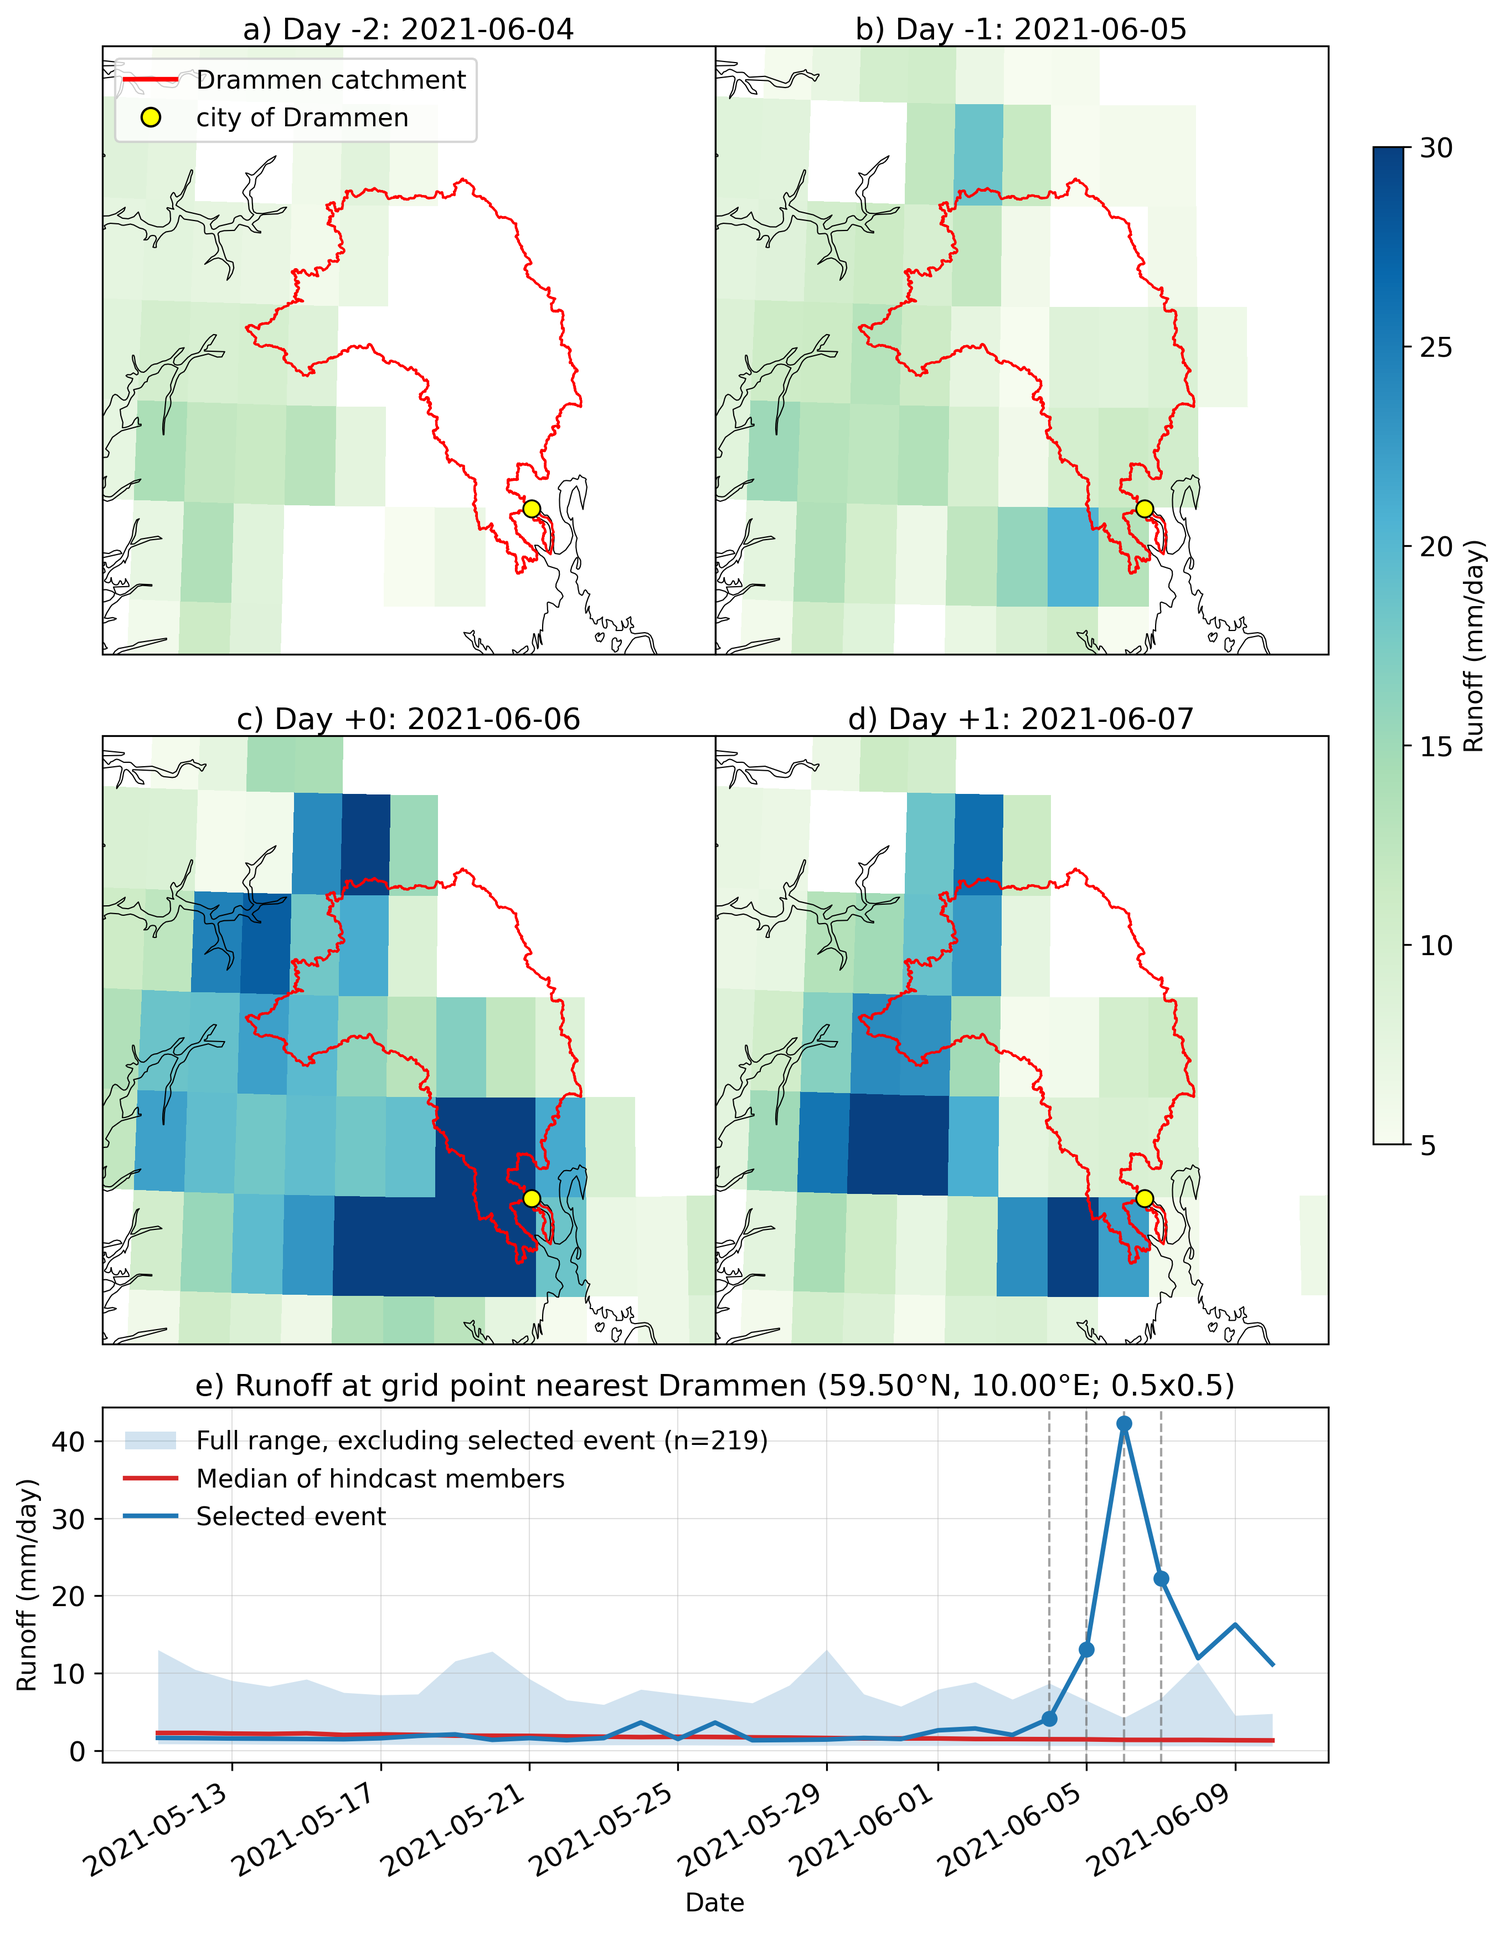
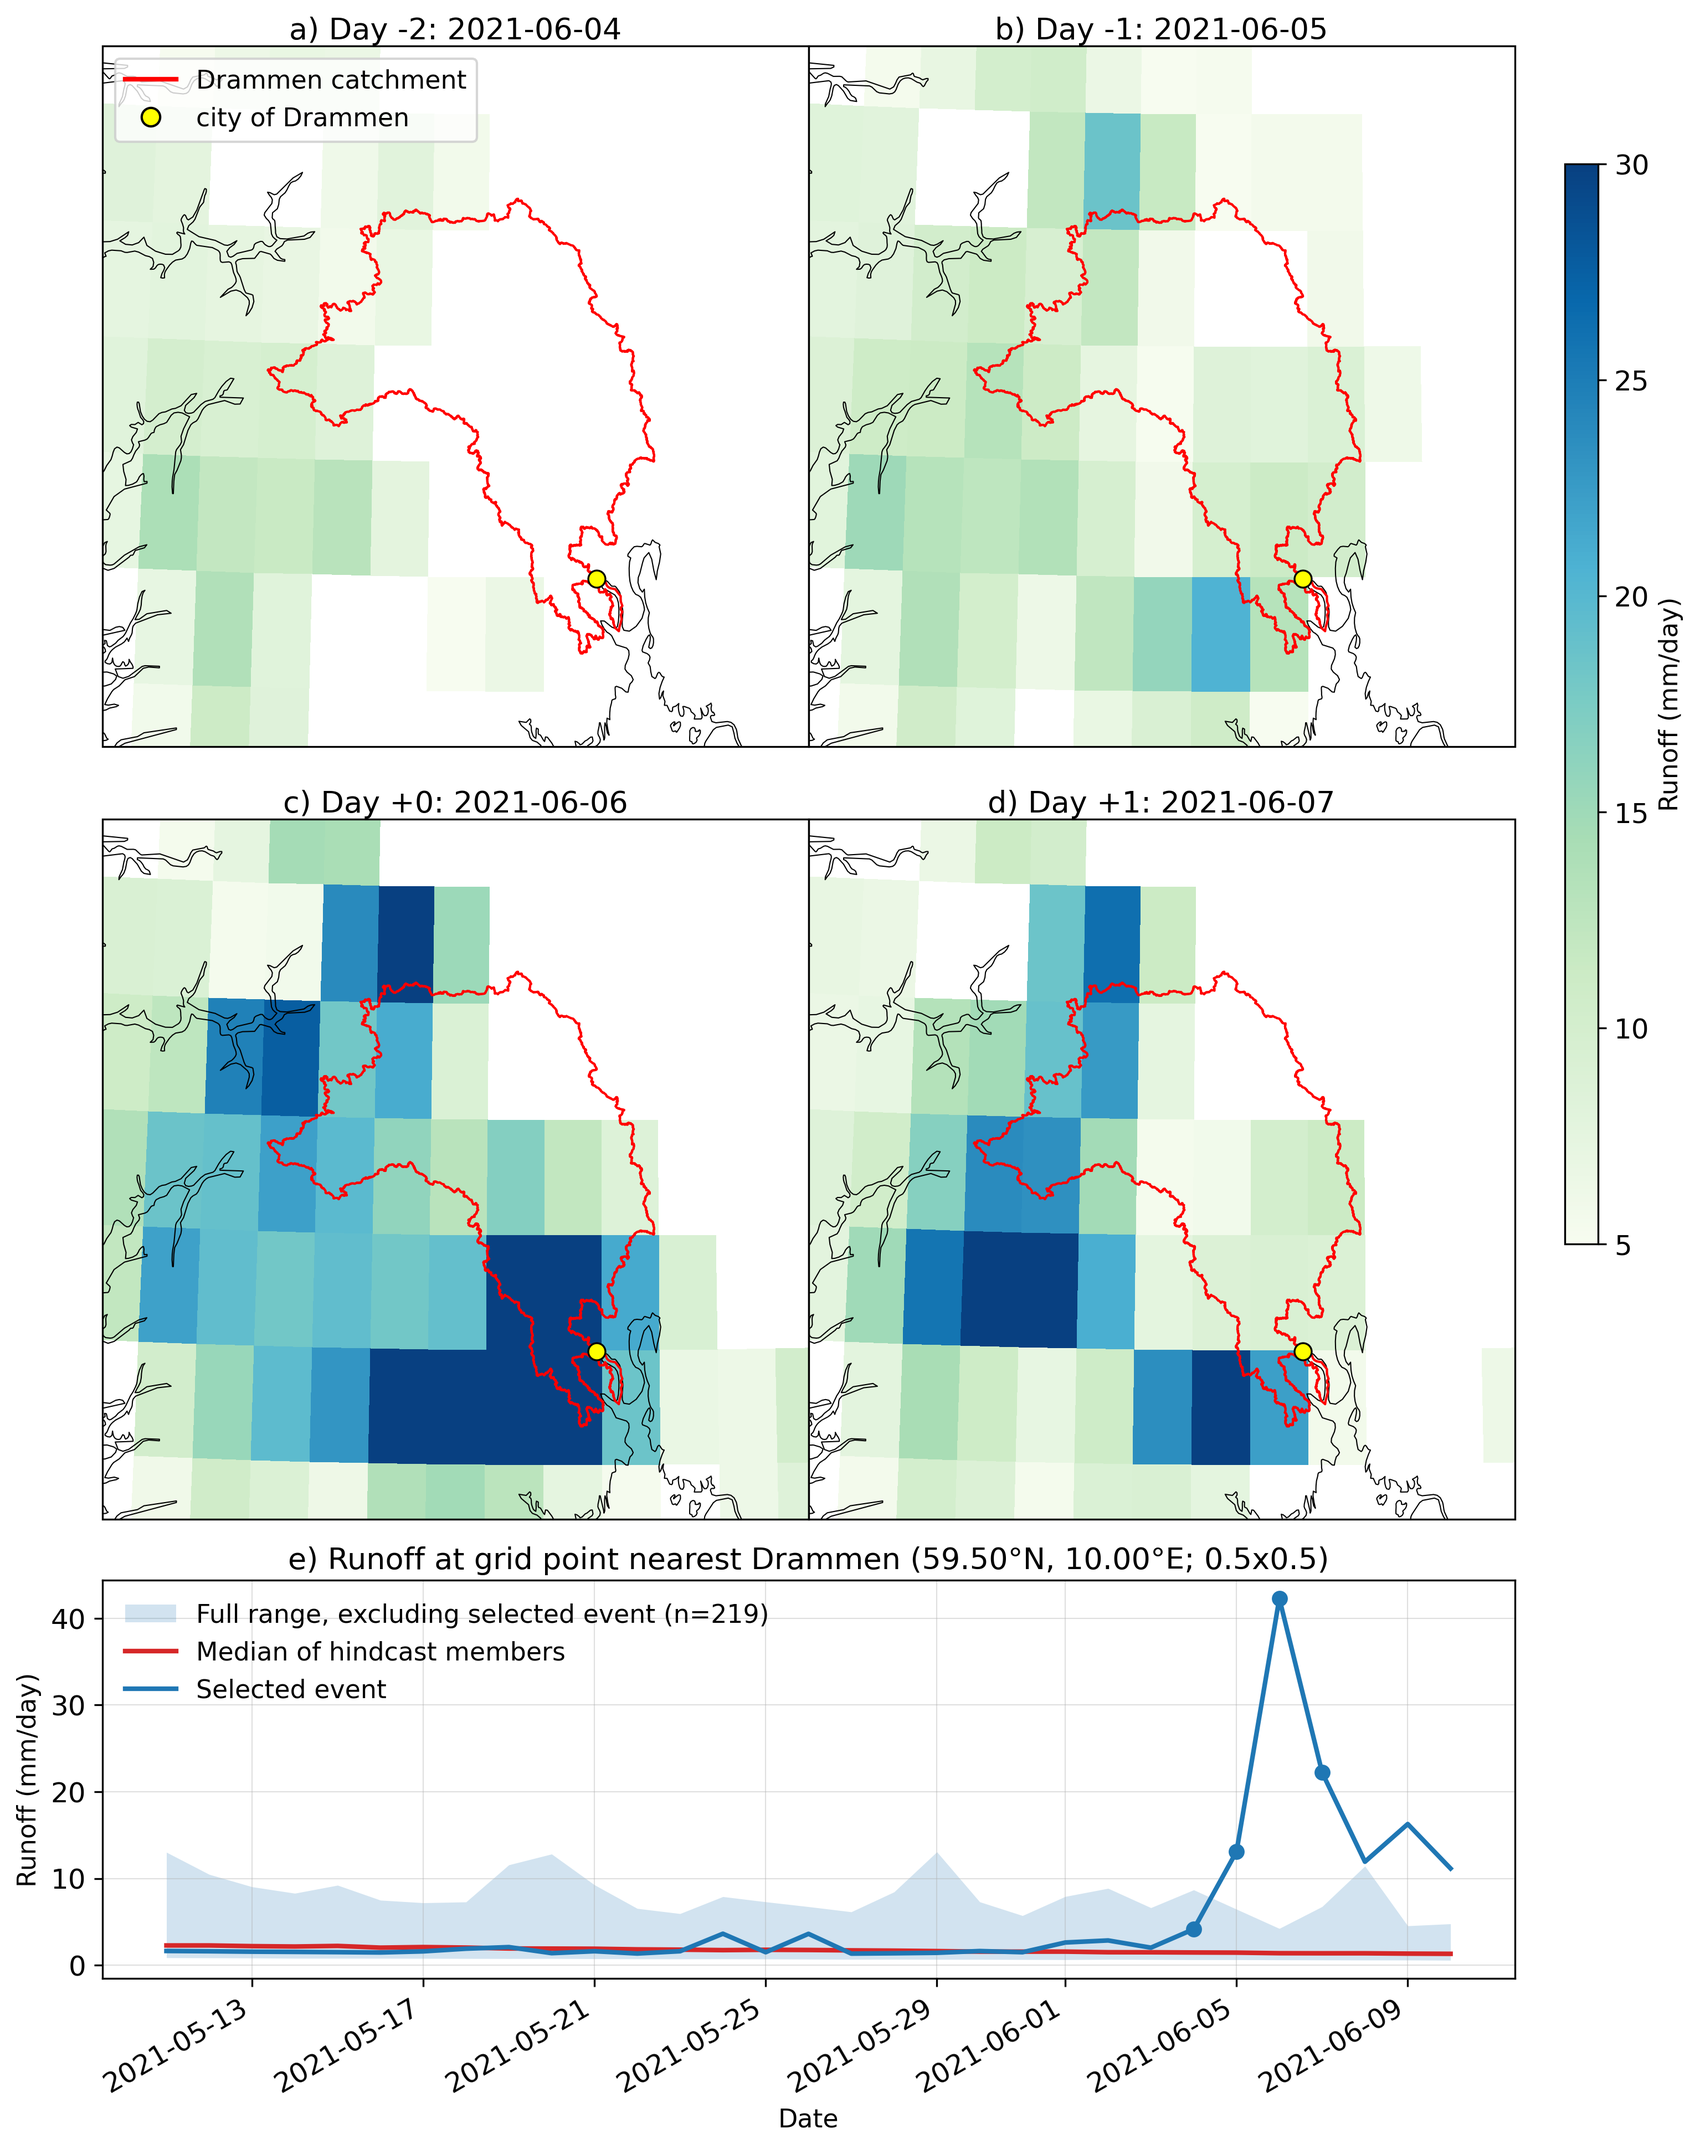
update

diff --git a/code/plot/paper_figs/temp4.py b/code/plot/paper_figs/temp4.py
@@ -64,8 +64,8 @@ S2S_BASE_DIR = Path("/nird/datapeak/NS9873K/etdu/raw/s2s/mars/ecmwf")
 # Figure settings
 # =============================================================================
 
-FIG_WIDTH_IN = 9
-FIG_HEIGHT_IN = 12
+FIG_WIDTH_IN = 10
+FIG_HEIGHT_IN = 13
 
 MAP_EXTENT = [6, 12, 59, 62]
 MAP_WSPACE = 0.0
@@ -730,13 +730,13 @@ def plot_runoff_timeseries(ts_ax, event, event_dates):
     )
 
     for date in event_dates:
-        ts_ax.axvline(
-            np.datetime64(date),
-            color="0.4",
-            linewidth=EVENT_DATE_LINEWIDTH,
-            alpha=EVENT_DATE_ALPHA,
-            linestyle="--",
-        )
+        #ts_ax.axvline(
+        #    np.datetime64(date),
+        #    color="0.4",
+        #    linewidth=EVENT_DATE_LINEWIDTH,
+        #    alpha=EVENT_DATE_ALPHA,
+        #    linestyle="--",
+        #)
 
         value = da_event.sel({time_name: np.datetime64(date)}, method="nearest")
 
@@ -861,9 +861,9 @@ def finalize_figure(
     plot_runoff_timeseries(ts_ax, event, event_dates)
 
     fig.subplots_adjust(
-        left=0.08,
+        left=0.05,
         right=0.90,
-        bottom=0.08,
+        bottom=0.05,
         top=0.95,
     )
 
